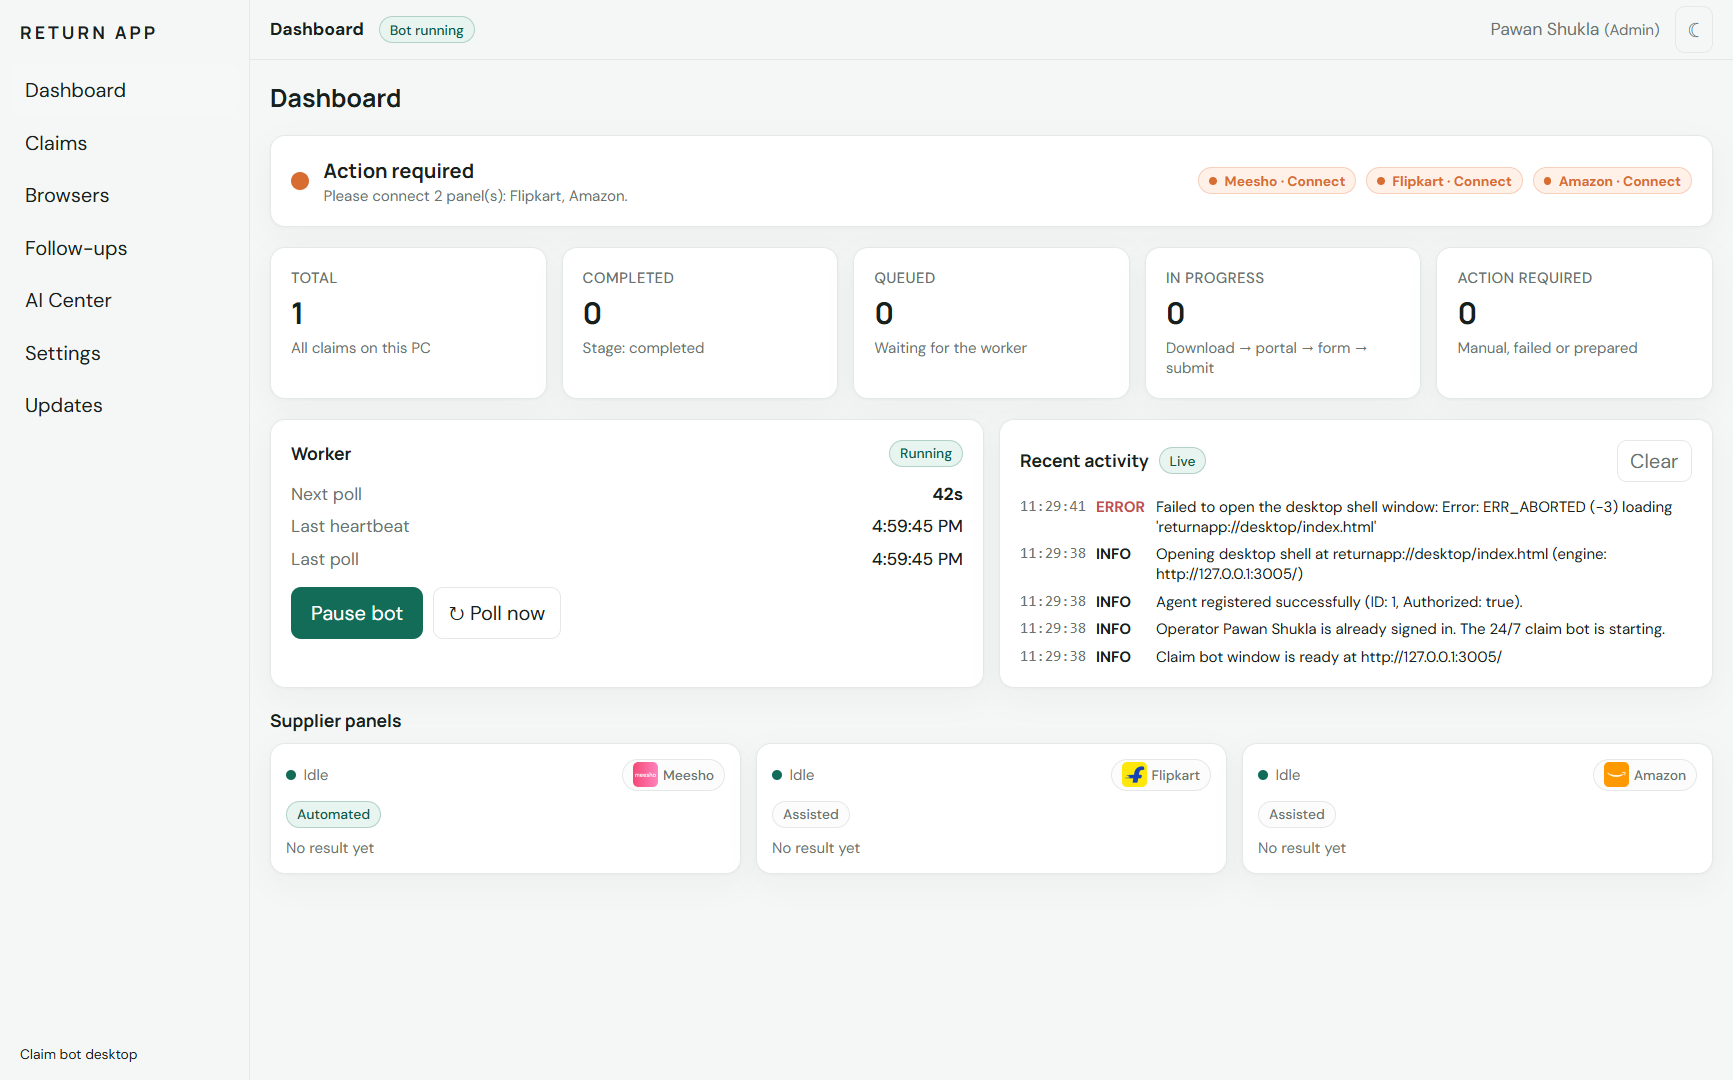
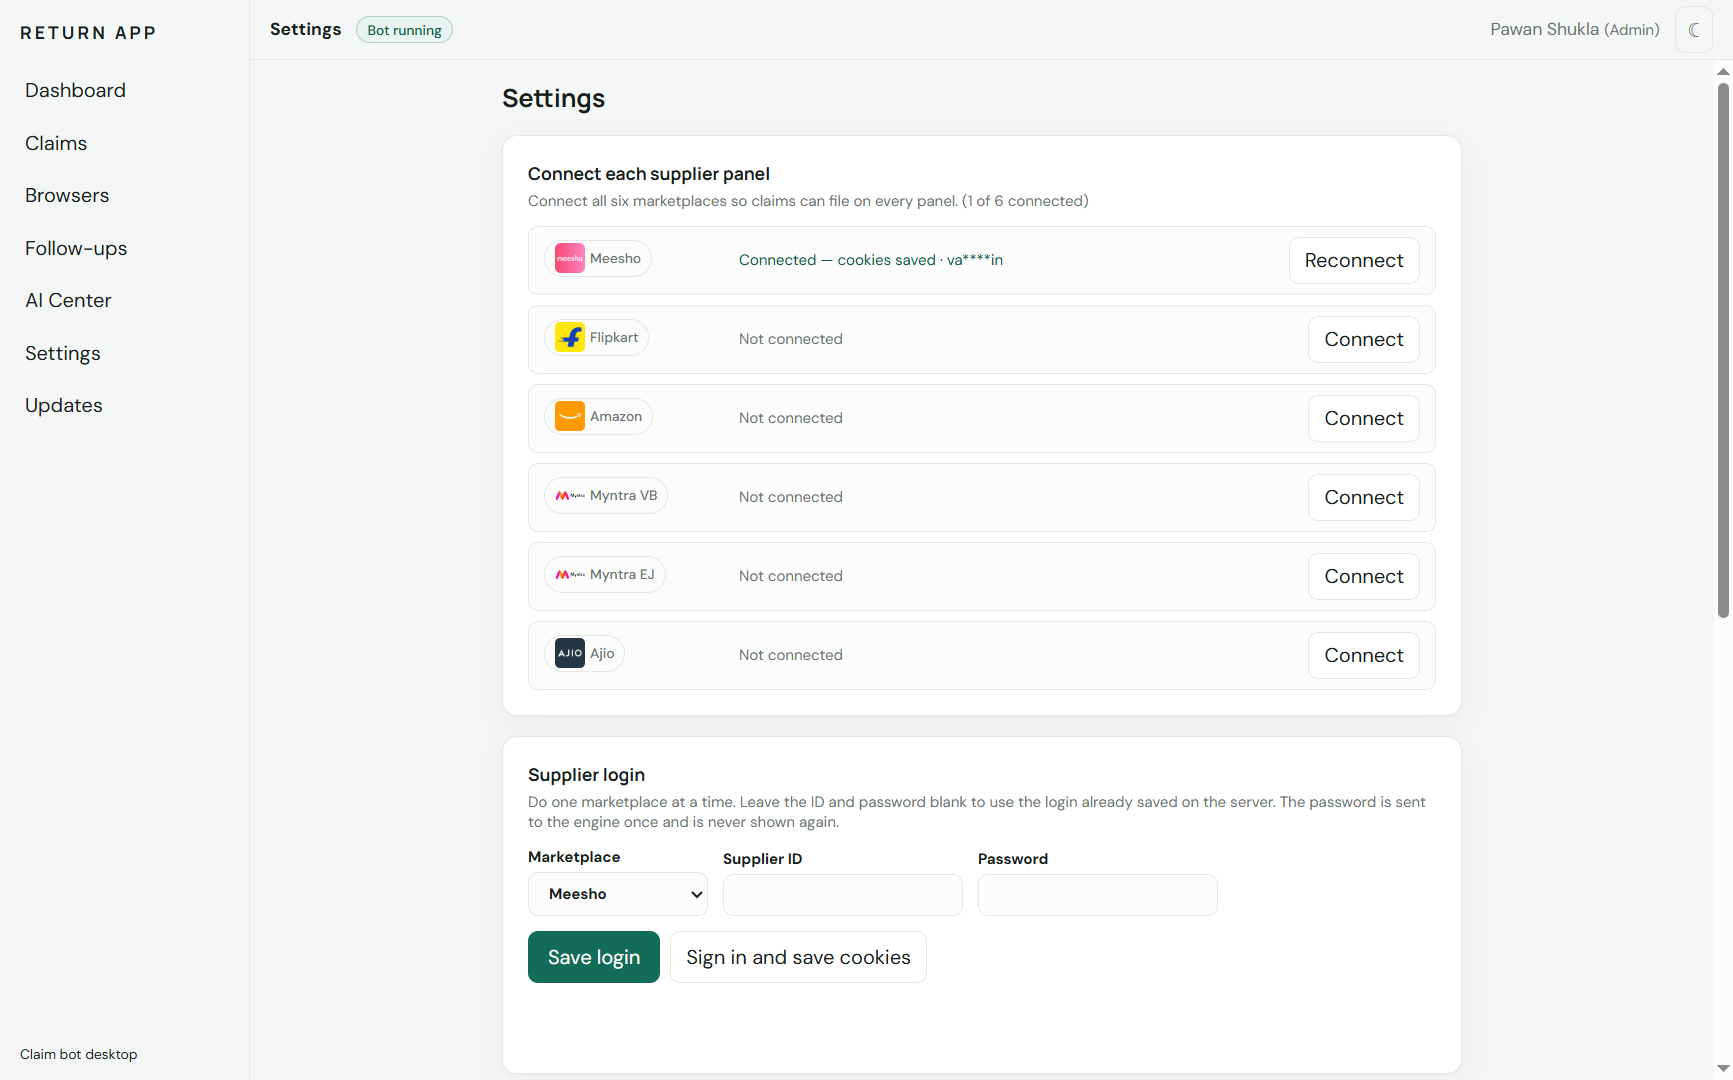
fix(desktop): resolve PR #55 code review findings for auth polling, CSP, evidence decode, and routing

diff --git a/desktop-agent/src/desktop-app-server.ts b/desktop-agent/src/desktop-app-server.ts
@@ -272,7 +272,6 @@ async function pollAndProcessJob(manual = false): Promise<boolean> {
         // when the workspace rect is not measurable, e.g. off the Browsers
         // tab) — the session survives either way.
         keepBrowserOpen = true
-        holdPortalBrowser(browserRunner)
         showSupplierView(panelKey)
         markPanelResult(panelKey, "prepared", "Prepared on the supplier panel. Waiting for approval.")
         await client.updateProgress(jobHeader.jobId, {
@@ -293,7 +292,6 @@ async function pollAndProcessJob(manual = false): Promise<boolean> {
         await client.cleanClaimEvidenceFiles(bundle.claimId, result.screenshotPath ? [result.screenshotPath] : [])
       } else if (result.stage === "manual_intervention_required") {
         keepBrowserOpen = true
-        holdPortalBrowser(browserRunner)
         // Manual intervention needs the operator's eyes on the actual page:
         // every manualActionReason says "in the open browser", so the view
         // must be shown in the bounded workspace here. The background-only
@@ -3446,13 +3444,20 @@ export function startDesktopAppServer(bind: EngineBind = resolveEngineBind()): P
         }
         const segments = url.pathname.slice("/api/evidence/".length).split("/")
         const claimId = segments[0] || ""
-        const fileName = segments.length > 1 ? segments[1] : ""
-        if (segments.length > 2 || !isValidEvidenceClaimId(claimId) || (segments.length > 1 && !fileName)) {
+        const rawFileName = segments.length > 1 ? segments[1] : ""
+        if (segments.length > 2 || !isValidEvidenceClaimId(claimId) || (segments.length > 1 && !rawFileName)) {
           sendJson(res, 400, { error: "Malformed evidence path." })
           return
         }
         if (segments.length === 1) {
           sendJson(res, 200, { claimId, files: listEvidenceFiles(config.workDir, claimId) })
+          return
+        }
+        let fileName = rawFileName
+        try {
+          fileName = decodeURIComponent(rawFileName)
+        } catch {
+          sendJson(res, 400, { error: "Malformed evidence file name." })
           return
         }
         const evidencePath = resolveEvidenceFile(config.workDir, claimId, fileName)

diff --git a/desktop/renderer/src/pages/ai-center/RoutingPanel.tsx b/desktop/renderer/src/pages/ai-center/RoutingPanel.tsx
@@ -21,15 +21,17 @@ export function RoutingPanel({ active }: { active: boolean }) {
     active,
   )
   const [budget, setBudget] = useState('')
+  const [isDirty, setIsDirty] = useState(false)
   const [saving, setSaving] = useState(false)
   const [message, setMessage] = useState<{ kind: InlineMessageKind; text: string } | null>(null)
 
   // Sync the input whenever a fresh routing payload lands (first load, poll
-  // tick, post-save refresh) — same behaviour as the old dashboard.
+  // tick, post-save refresh) — but never clobber uncommitted user edits.
   useEffect(() => {
+    if (isDirty) return
     const value = data?.routing.monthlyBudgetUsd
     setBudget(value == null ? '' : String(value))
-  }, [data])
+  }, [data, isDirty])
 
   if (!data && !error) {
     return (
@@ -57,8 +59,8 @@ export function RoutingPanel({ active }: { active: boolean }) {
       monthlyBudgetUsd = null
     } else {
       const parsed = Number(raw)
-      if (!Number.isFinite(parsed) || parsed < 0) {
-        setMessage({ kind: 'error', text: 'Budget must be a non-negative number, or empty for no budget.' })
+      if (!Number.isFinite(parsed) || parsed <= 0) {
+        setMessage({ kind: 'error', text: 'Budget must be a positive number, or empty for no budget.' })
         return
       }
       monthlyBudgetUsd = parsed
@@ -69,6 +71,7 @@ export function RoutingPanel({ active }: { active: boolean }) {
       await apiPost<{ ok: boolean }>('/api/v1/ai-center/routing', {
         routing: { ...routing, monthlyBudgetUsd },
       })
+      setIsDirty(false)
       setMessage({ kind: 'ok', text: 'Routing saved.' })
       refresh()
     } catch (cause) {
@@ -114,7 +117,10 @@ export function RoutingPanel({ active }: { active: boolean }) {
           type="text"
           inputMode="decimal"
           value={budget}
-          onChange={(event) => setBudget(event.target.value)}
+          onChange={(event) => {
+            setIsDirty(true)
+            setBudget(event.target.value)
+          }}
           disabled={!routing}
           className={`${INPUT_CLS} w-28 text-xs`}
         />

diff --git a/desktop/renderer/src/pages/FollowUps.tsx b/desktop/renderer/src/pages/FollowUps.tsx
@@ -1,6 +1,7 @@
 import { useCallback, useEffect, useState } from 'react'
 import type { FollowUpRow, FollowUpsResponse } from '../types/engine'
 import { apiGet, EngineApiError } from '../services/engineApi'
+import { useSession } from '../state/SessionContext'
 import { DataTable, type DataTableColumn } from '../components/ui/DataTable'
 import { MarketplaceBadge } from '../components/ui/MarketplaceBadge'
 import { Badge } from '../components/ui/Badge'
@@ -131,6 +132,7 @@ export default function FollowUpsPage() {
   const [data, setData] = useState<FollowUpsResponse | null>(null)
   const [error, setError] = useState<EngineApiError | null>(null)
   const [refreshKey, setRefreshKey] = useState(0)
+  const { handleAuthError } = useSession()
 
   // Poll the engine directly (mirrors useEngineStatus): useEnginePolling has no
   // manual refresh, and this page's error state must offer a retry that
@@ -147,6 +149,7 @@ export default function FollowUpsPage() {
         setError(null)
       } catch (cause) {
         if (cancelled) return
+        handleAuthError(cause)
         setError(
           cause instanceof EngineApiError
             ? cause
@@ -162,7 +165,7 @@ export default function FollowUpsPage() {
       cancelled = true
       if (timer !== undefined) window.clearTimeout(timer)
     }
-  }, [refreshKey])
+  }, [refreshKey, handleAuthError])
 
   const retry = useCallback(() => setRefreshKey((key) => key + 1), [])
 

diff --git a/desktop/renderer/src/hooks/useEnginePolling.ts b/desktop/renderer/src/hooks/useEnginePolling.ts
@@ -1,5 +1,6 @@
 import { useEffect, useRef, useState } from 'react'
 import { apiGet, EngineApiError } from '../services/engineApi'
+import { useSession } from '../state/SessionContext'
 
 /**
  * Generic engine polling hook. Runs `fn` immediately, then every `ms` while
@@ -14,6 +15,11 @@ export function useEnginePolling<T>(
 ): { data: T | null; error: EngineApiError | null } {
   const [data, setData] = useState<T | null>(null)
   const [error, setError] = useState<EngineApiError | null>(null)
+  const { handleAuthError } = useSession()
+  const handleAuthErrorRef = useRef(handleAuthError)
+  useEffect(() => {
+    handleAuthErrorRef.current = handleAuthError
+  }, [handleAuthError])
   const fnRef = useRef(fn)
 
   useEffect(() => {
@@ -33,6 +39,7 @@ export function useEnginePolling<T>(
         setError(null)
       } catch (cause) {
         if (cancelled) return
+        handleAuthErrorRef.current(cause)
         setError(cause instanceof EngineApiError ? cause : new EngineApiError(0, cause instanceof Error ? cause.message : String(cause)))
       } finally {
         if (!cancelled) timer = window.setTimeout(() => void tick(), ms)

diff --git a/desktop/renderer/index.html b/desktop/renderer/index.html
@@ -5,7 +5,7 @@
     <meta name="viewport" content="width=device-width, initial-scale=1.0" />
     <meta
       http-equiv="Content-Security-Policy"
-      content="default-src 'self'; script-src 'self'; style-src 'self' 'unsafe-inline'; img-src 'self' data: blob: http://127.0.0.1:3005 http://localhost:3005; media-src 'self' http://127.0.0.1:3005 http://localhost:3005; font-src 'self'; connect-src 'self' http://127.0.0.1:3005 http://localhost:3005 http://localhost:5180 ws://localhost:5180; base-uri 'self'; form-action 'self'"
+      content="default-src 'self'; script-src 'self'; style-src 'self' 'unsafe-inline'; img-src 'self' data: blob: http: https:; media-src 'self' blob: http: https:; font-src 'self'; connect-src 'self' http: https: ws://localhost:5180 ws://127.0.0.1:5180; base-uri 'self'; form-action 'self'"
     />
     <title>Return App — Claim Bot</title>
   </head>

diff --git a/desktop/renderer/src/pages/ai-center/UsagePanel.tsx b/desktop/renderer/src/pages/ai-center/UsagePanel.tsx
@@ -30,7 +30,12 @@ export function UsagePanel({ active }: { active: boolean }) {
   const fetcher = useCallback(() => {
     const params = new URLSearchParams()
     if (applied.from) params.set('from', applied.from)
-    if (applied.to) params.set('to', applied.to)
+    if (applied.to) {
+      // Backend queries compare against timestamps (created_at < to / r.at <= to).
+      // Append end-of-day so that records on the selected date are included.
+      const toParam = applied.to.length === 10 ? `${applied.to}T23:59:59.999Z` : applied.to
+      params.set('to', toParam)
+    }
     const query = params.toString()
     return apiGet<AiUsage>(`/api/v1/ai-center/usage${query ? `?${query}` : ''}`)
   }, [applied])

diff --git a/desktop-agent/src/ai-center-routes.ts b/desktop-agent/src/ai-center-routes.ts
@@ -197,7 +197,10 @@ export async function handleAiCenterRoute(
     const to = url.searchParams.get("to") || undefined
     let records = readUsage(dir, 2000)
     if (from) records = records.filter((r) => r.at >= from)
-    if (to) records = records.filter((r) => r.at < to)
+    if (to) {
+      const toBound = to.length === 10 ? `${to}T23:59:59.999Z` : to
+      records = records.filter((r) => r.at <= toBound)
+    }
     ctx.sendJson(res, 200, { summary: summarizeUsage(records), records: records.slice(-200).reverse() })
     return true
   }

diff --git a/docs/notes/agent-handoff.md b/docs/notes/agent-handoff.md
@@ -3091,3 +3091,33 @@ These are facts about the code as of 2026-10-10. The Application Security Engine
 - **The next agent must not:**
   - Remove sessionEpoch from SessionContext or App.tsx.
   - Remove sequence checking in Browsers.tsx.
+
+
+### 2026-11-05, Antigravity Agent: Resolution of 10 Detailed CodeAnt PR #55 Findings
+
+- **Task:** Resolve all remaining code review suggestions and potential issues identified in the inline comments of PR #55 (covering authentication handling in polling hooks, remote-engine CSP support, evidence filename percent-decoding, inclusive date ranges in AI Center usage queries, non-destructive routing budget inputs, and claim worker polling continuity on prepared claims).
+- **Review Items Resolved:**
+  1. `desktop/renderer/src/hooks/useEnginePolling.ts`: Hook now imports and calls `useSession().handleAuthError(cause)` on catch so any polled endpoint returning 401 resets the operator session and returns to the login gate.
+  2. `desktop/renderer/index.html`: Content-Security-Policy updated to allow `http: https:` in `connect-src`, `img-src`, and `media-src`, ensuring remote-engine mode (`RETURN_ENGINE_URL`) functions without CSP connection blocks.
+  3. `desktop/renderer/src/pages/FollowUps.tsx`: Follow-ups polling loop now invokes `useSession().handleAuthError(cause)` on 401 responses, immediately rendering the login gate.
+  4. `desktop-agent/src/desktop-app-server.ts`: Safely decodes `rawFileName` via `decodeURIComponent` (with malformed URI handling) prior to `resolveEvidenceFile` so files with spaces or percent-encoded characters are located and served accurately.
+  5. `desktop/renderer/src/pages/ai-center/UsagePanel.tsx` & `desktop-agent/src/ai-center-routes.ts`: Made `to` date boundary inclusive by appending `T23:59:59.999Z` to 10-character date inputs so all usage records on the selected end date are included in results.
+  6. `desktop/renderer/src/pages/ai-center/RoutingPanel.tsx`: Added an `isDirty` state guard on the monthly budget input so 60-second background polling ticks never clobber unsaved operator inputs while typing.
+  7. `desktop/renderer/src/pages/ai-center/RoutingPanel.tsx`: Validated that budget values are strictly positive (`parsed > 0`), aligning client validation with the backend `normalizeRouting` contract.
+  8. `desktop-agent/src/desktop-app-server.ts`: Removed erroneous `holdPortalBrowser(browserRunner)` calls from `prepared` and `manual_intervention_required` handlers, ensuring `portalBrowserHeld` is not set and the worker poller is not blocked from leasing and processing subsequent approved/submitting claims.
+- **Verification Run & Results:**
+  - `npm run typecheck`: 0 errors across 4 projects (`tsconfig.json`, `tsconfig.server.json`, `tsconfig.desktop.json`, `desktop/renderer/tsconfig.json`).
+  - `npm test`: All 903 tests executed: 857 passed, 0 failed, 46 skipped (dedicated `TEST_DATABASE_URL` unset, Windows POSIX skips).
+  - `npm run build`: Web application production build succeeded in 1.73s.
+  - `npm run desktop:renderer:build`: Bundled desktop renderer built in 1.25s.
+  - `npm run desktop:dist`: Packaged and signed `dist-electron/Return.App.Setup.1.3.0.exe` (116.7 MB).
+  - `node desktop/gui-acceptance.mjs`: All 8 acceptance journey criteria passed live against `Return App.exe`:
+    - Offline / connecting state validated.
+    - Operator sign-in gate validated.
+    - Full 7-tab sidebar navigation validated.
+    - Bounded Browsers workspace viewport validated (zero sidebar overlap).
+    - V8 heap memory measured at 3.85 MB.
+    - 9 verified screenshots updated in `docs/screenshots/`.
+- **The next agent must not:**
+  - Remove `decodeURIComponent` from evidence file resolution routes in `desktop-app-server.ts`.
+  - Re-introduce `holdPortalBrowser` into the worker filing pipeline (`prepared` / `manual_intervention_required`).
